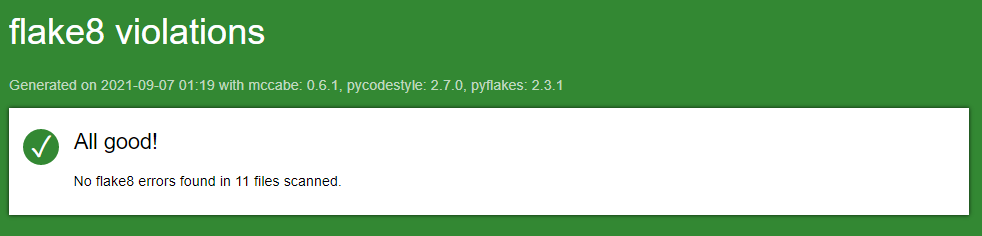
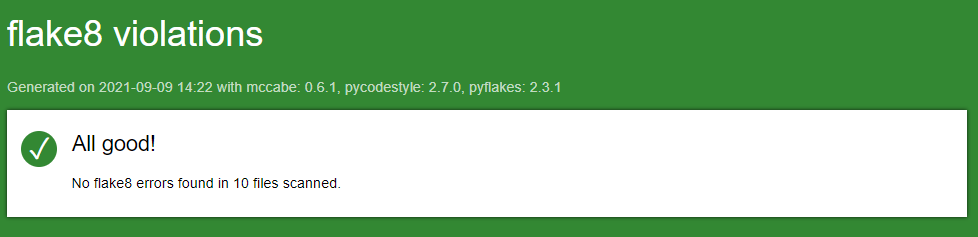
player score fix
removed DB controller (moved "load_db" to models
corrections in views
added merge players for first round (wrong order for score input)
fixed error for missing tour id when starting tour after creation
added back to menu and input error message to score input

diff --git a/flake8_report/index.html b/flake8_report/index.html
@@ -9,7 +9,7 @@
       <div id="masthead" class="sev-4"></div>
       <div id="page">
           <h1>flake8 violations</h1>
-         <p id="versions">Generated on 2021-09-07 01:19
+         <p id="versions">Generated on 2021-09-09 14:22
             with mccabe: 0.6.1, pycodestyle: 2.7.0, pyflakes: 2.3.1
          </p>
          <ul id="index">
@@ -20,7 +20,7 @@
                   <span class="tick">&#x2713;</span>
                </span>
                <h2>All good!</h2>
-               <p>No flake8 errors found in 11 files scanned.</p>
+               <p>No flake8 errors found in 10 files scanned.</p>
             </div>
          </li>
          

diff --git a/chess_tournaments/controllers/tournament.py b/chess_tournaments/controllers/tournament.py
@@ -67,8 +67,8 @@ class TournamentController:
         if user_input == "ok":
             r.end_datetime = self.timer
             t.rounds.append(r.set_round())
+            t.merge_players(top_players, bottom_players)
 
-            t.players = top_players + bottom_players
             self.end_of_round(scores_list, t)
 
         elif user_input == "back":
@@ -181,6 +181,41 @@ class TournamentController:
         response = input()
         return response
 
+    def get_score(self, response, scores_list: list):
+        """Input scores for each match in current round
+
+        @param response: user input (str)
+        @param scores_list: list of scores
+        @return: updated list of scores
+        """
+        if response == "0":
+            scores_list.extend([0.5, 0.5])
+            return scores_list
+        elif response == "1":
+            scores_list.extend([1.0, 0.0])
+            return scores_list
+        elif response == "2":
+            scores_list.extend([0.0, 1.0])
+            return scores_list
+        elif response == "back":
+            self.back_to_menu()
+        else:
+            self.menu_view.input_error()
+            self.input_scores()
+
+    @staticmethod
+    def update_scores(players, scores_list):
+        """Update player scores
+
+        @param players: list of players
+        @param scores_list: list of scores
+        @return: list of players with updated scores
+        """
+        for i in range(len(players)):
+            players[i]["score"] += scores_list[i]
+
+        return players
+
     @staticmethod
     def update_player_lists(player_1, player_2, available_list, players_added):
         """Update player lists :
@@ -198,36 +233,6 @@ class TournamentController:
         available_list.remove(player_2)
 
         return available_list, players_added
-
-    @staticmethod
-    def get_score(response, scores_list):
-        """Input scores for each match in current round
-
-        @param response: user input (int)
-        @param scores_list: list of scores
-        @return: updated list of scores
-        """
-        if response == "0":
-            scores_list.extend([0.5, 0.5])
-        elif response == "1":
-            scores_list.extend([1.0, 0.0])
-        elif response == "2":
-            scores_list.extend([0.0, 1.0])
-
-        return scores_list
-
-    @staticmethod
-    def update_scores(players, scores_list):
-        """Update player scores
-
-        @param players: list of players
-        @param scores_list: list of scores
-        @return: list of players with updated scores
-        """
-        for i in range(len(players)):
-            players[i]["score"] += scores_list[i]
-
-        return players
 
     @staticmethod
     def update_opponents(player_1, player_2):

diff --git a/chess_tournaments/controllers/menu.py b/chess_tournaments/controllers/menu.py
@@ -1,4 +1,3 @@
-from chess_tournaments.controllers.database import DatabaseController
 from chess_tournaments.controllers.reports import ReportsController
 from chess_tournaments.controllers.tournament import TournamentController
 from chess_tournaments.models.player import Player
@@ -12,7 +11,6 @@ class MenuController:
         self.menu_view = MenuViews()
         self.tour_cont = TournamentController()
         self.reports_cont = ReportsController()
-        self.db = DatabaseController()
 
     def main_menu_start(self):
         """Main menu selector :
@@ -131,7 +129,7 @@ class MenuController:
         @param players_total: number of players (int)
         @return: list of selected players
         """
-        players = self.db.load_player_db()
+        players = Player.load_player_db()
         id_list = []
         for i in range(len(players)):
             id_list.append(players[i]["id"])
@@ -161,7 +159,7 @@ class MenuController:
 
     def resume_tournament(self):
         """Select existing tournament to resume"""
-        tournament_list = self.db.load_tournament_db()
+        tournament_list = Tournament.load_tournament_db()
 
         self.menu_view.select_tournament(tournament_list)
         self.menu_view.input_prompt()
@@ -229,7 +227,7 @@ class MenuController:
 
     def update_player(self):
         """Update existing player info"""
-        players = self.db.load_player_db()
+        players = Player.load_player_db()
 
         self.menu_view.select_players(players, "to update")
         self.menu_view.input_prompt()
@@ -288,7 +286,7 @@ class MenuController:
         user_input = input()
 
         if user_input == "1":
-            self.player_reports_sorting(self.db.load_player_db())
+            self.player_reports_sorting(Player.load_player_db())
 
         elif user_input == "2":
             self.player_reports_sorting(self.reports_cont.tournament_players())
@@ -319,7 +317,10 @@ class MenuController:
             self.main_menu_start()
 
     def player_reports_sorting(self, players):
-        """Select sorting option (name or rank) for players"""
+        """Select sorting option (name or rank) for players
+
+        @param players: list of players
+        """
         self.menu_view.reports_player_sorting()
         self.menu_view.input_prompt()
         user_input = input()

diff --git a/chess_tournaments/models/tournament.py b/chess_tournaments/models/tournament.py
@@ -60,13 +60,26 @@ class Tournament:
         half = len(self.players) // 2
         return self.players[:half], self.players[half:]
 
+    def merge_players(self, top_players, bottom_players):
+        """Merge top and bottom players in order of matches
+
+        @param top_players: top half of players (list)
+        @param bottom_players: bottom half of players (list)
+        """
+        merged_players = []
+        for i in range(len(self.players) // 2):
+            merged_players.append(top_players[i])
+            merged_players.append(bottom_players[i])
+
+        self.players = merged_players
+
     def save_tournament_db(self):
         """Save new tournament to database
         Set tournament ID as document ID
         """
         db = self.tour_db
-        t_id = db.insert(self.serialize_tournament())
-        db.update({'id': t_id}, doc_ids=[t_id])
+        self.t_id = db.insert(self.serialize_tournament())
+        db.update({'id': self.t_id}, doc_ids=[self.t_id])
 
     def update_tournament_db(self):
         """Update tournament info (after each round) in database"""
@@ -83,3 +96,17 @@ class Tournament:
         """
         db = self.tour_db
         db.update({info: timer}, doc_ids=[self.t_id])
+
+    @staticmethod
+    def load_tournament_db():
+        """Load tournament database
+
+        @return: list of tournaments
+        """
+        db = TinyDB('database/tournaments.json')
+        db.all()
+        tournaments_list = []
+        for item in db:
+            tournaments_list.append(item)
+
+        return tournaments_list

diff --git a/chess_tournaments/controllers/reports.py b/chess_tournaments/controllers/reports.py
@@ -1,4 +1,4 @@
-from chess_tournaments.controllers.database import DatabaseController
+from chess_tournaments.models.tournament import Tournament
 from chess_tournaments.views.menu import MenuViews
 from chess_tournaments.views.reports import Reports
 
@@ -8,7 +8,6 @@ class ReportsController:
     def __init__(self):
         self.menu_view = MenuViews()
         self.reports_view = Reports()
-        self.db = DatabaseController()
 
     def all_players_name(self, players):
         """Player report (sorted by last name)
@@ -40,7 +39,7 @@ class ReportsController:
 
     def all_tournaments(self):
         """All tournaments report"""
-        self.reports_view.display_tournaments_report(self.db.load_tournament_db())
+        self.reports_view.display_tournaments_report(Tournament.load_tournament_db())
 
     def tournament_rounds(self):
         """All rounds from a tournament"""
@@ -72,7 +71,7 @@ class ReportsController:
 
         @return: user selection, list of all tournaments
         """
-        tournaments = self.db.load_tournament_db()
+        tournaments = Tournament.load_tournament_db()
         self.menu_view.select_tournament(tournaments)
         self.menu_view.input_prompt()
         user_input = input()

diff --git a/chess_tournaments/views/reports.py b/chess_tournaments/views/reports.py
@@ -25,7 +25,7 @@ class Reports:
             "End date",
             "Time control",
             "Last round played",
-            "Players (ID | Name)",
+            "Players (ID : Name)",
         ]
 
         self.matches_report_field_names = [
@@ -75,8 +75,7 @@ class Reports:
             players = tournaments[i]["players"]
             for k in range(len(players)):
                 participants.append(
-                    str(players[k]["id"]) + " | " +
-                    players[k]["last_name"] + ", " + players[k]["first_name"])
+                    str(players[k]["id"]) + " : " + players[k]["last_name"])
 
             self.table.add_row([
                 tournaments[i]["id"],
@@ -125,6 +124,10 @@ class Reports:
 
     @staticmethod
     def report_header(info):
+        """Header for tournament reports
+
+        @param info: tournament (dict)
+        """
         print("\n\n")
 
         h_1 = f"{info['name'].upper()}, {info['location'].title()} | Description : {info['description']}"

diff --git a/chess_tournaments/views/menu.py b/chess_tournaments/views/menu.py
@@ -67,7 +67,7 @@ class MenuViews:
         """Display all players to select
 
         @param players: list of players
-        @param player_number: number of current player (for new tournament, if editing player == "")
+        @param player_number: number of current player for new tournament (if editing player == "")
         """
         print(f"\nSelect player {player_number} :\n")
         for i in range(len(players)):
@@ -130,7 +130,7 @@ class MenuViews:
 
     @staticmethod
     def player_saved():
-        print("\nPlayer successfully saved to database ✓")
+        print("\nPlayer successfully saved to database !")
 
     @staticmethod
     def reports_menu():
@@ -177,5 +177,5 @@ class MenuViews:
         print("\nUpdate ranks ? [y/n] ", end='')
 
     @staticmethod
-    def rank_update_header(p):
-        print(f"\nUpdating {p.last_name}, {p.first_name}")
+    def rank_update_header(player):
+        print(f"\nUpdating {player.last_name}, {player.first_name}")

diff --git a/chess_tournaments/models/player.py b/chess_tournaments/models/player.py
@@ -55,3 +55,17 @@ class Player:
             db.update({option: int(info)}, doc_ids=[self.p_id])
         else:
             db.update({option: info}, doc_ids=[self.p_id])
+
+    @staticmethod
+    def load_player_db():
+        """Load player database
+
+        @return: list of players
+        """
+        players_db = TinyDB('database/players.json')
+        players_db.all()
+        players = []
+        for item in players_db:
+            players.append(item)
+
+        return players

diff --git a/chess_tournaments/views/round.py b/chess_tournaments/views/round.py
@@ -91,6 +91,7 @@ class RoundViews:
         print('[0] Draw')
         print('[1] Player 1 wins')
         print('[2] Player 2 wins')
+        print("\n[back] Back to main menu")
 
     @staticmethod
     def score_input_prompt():
